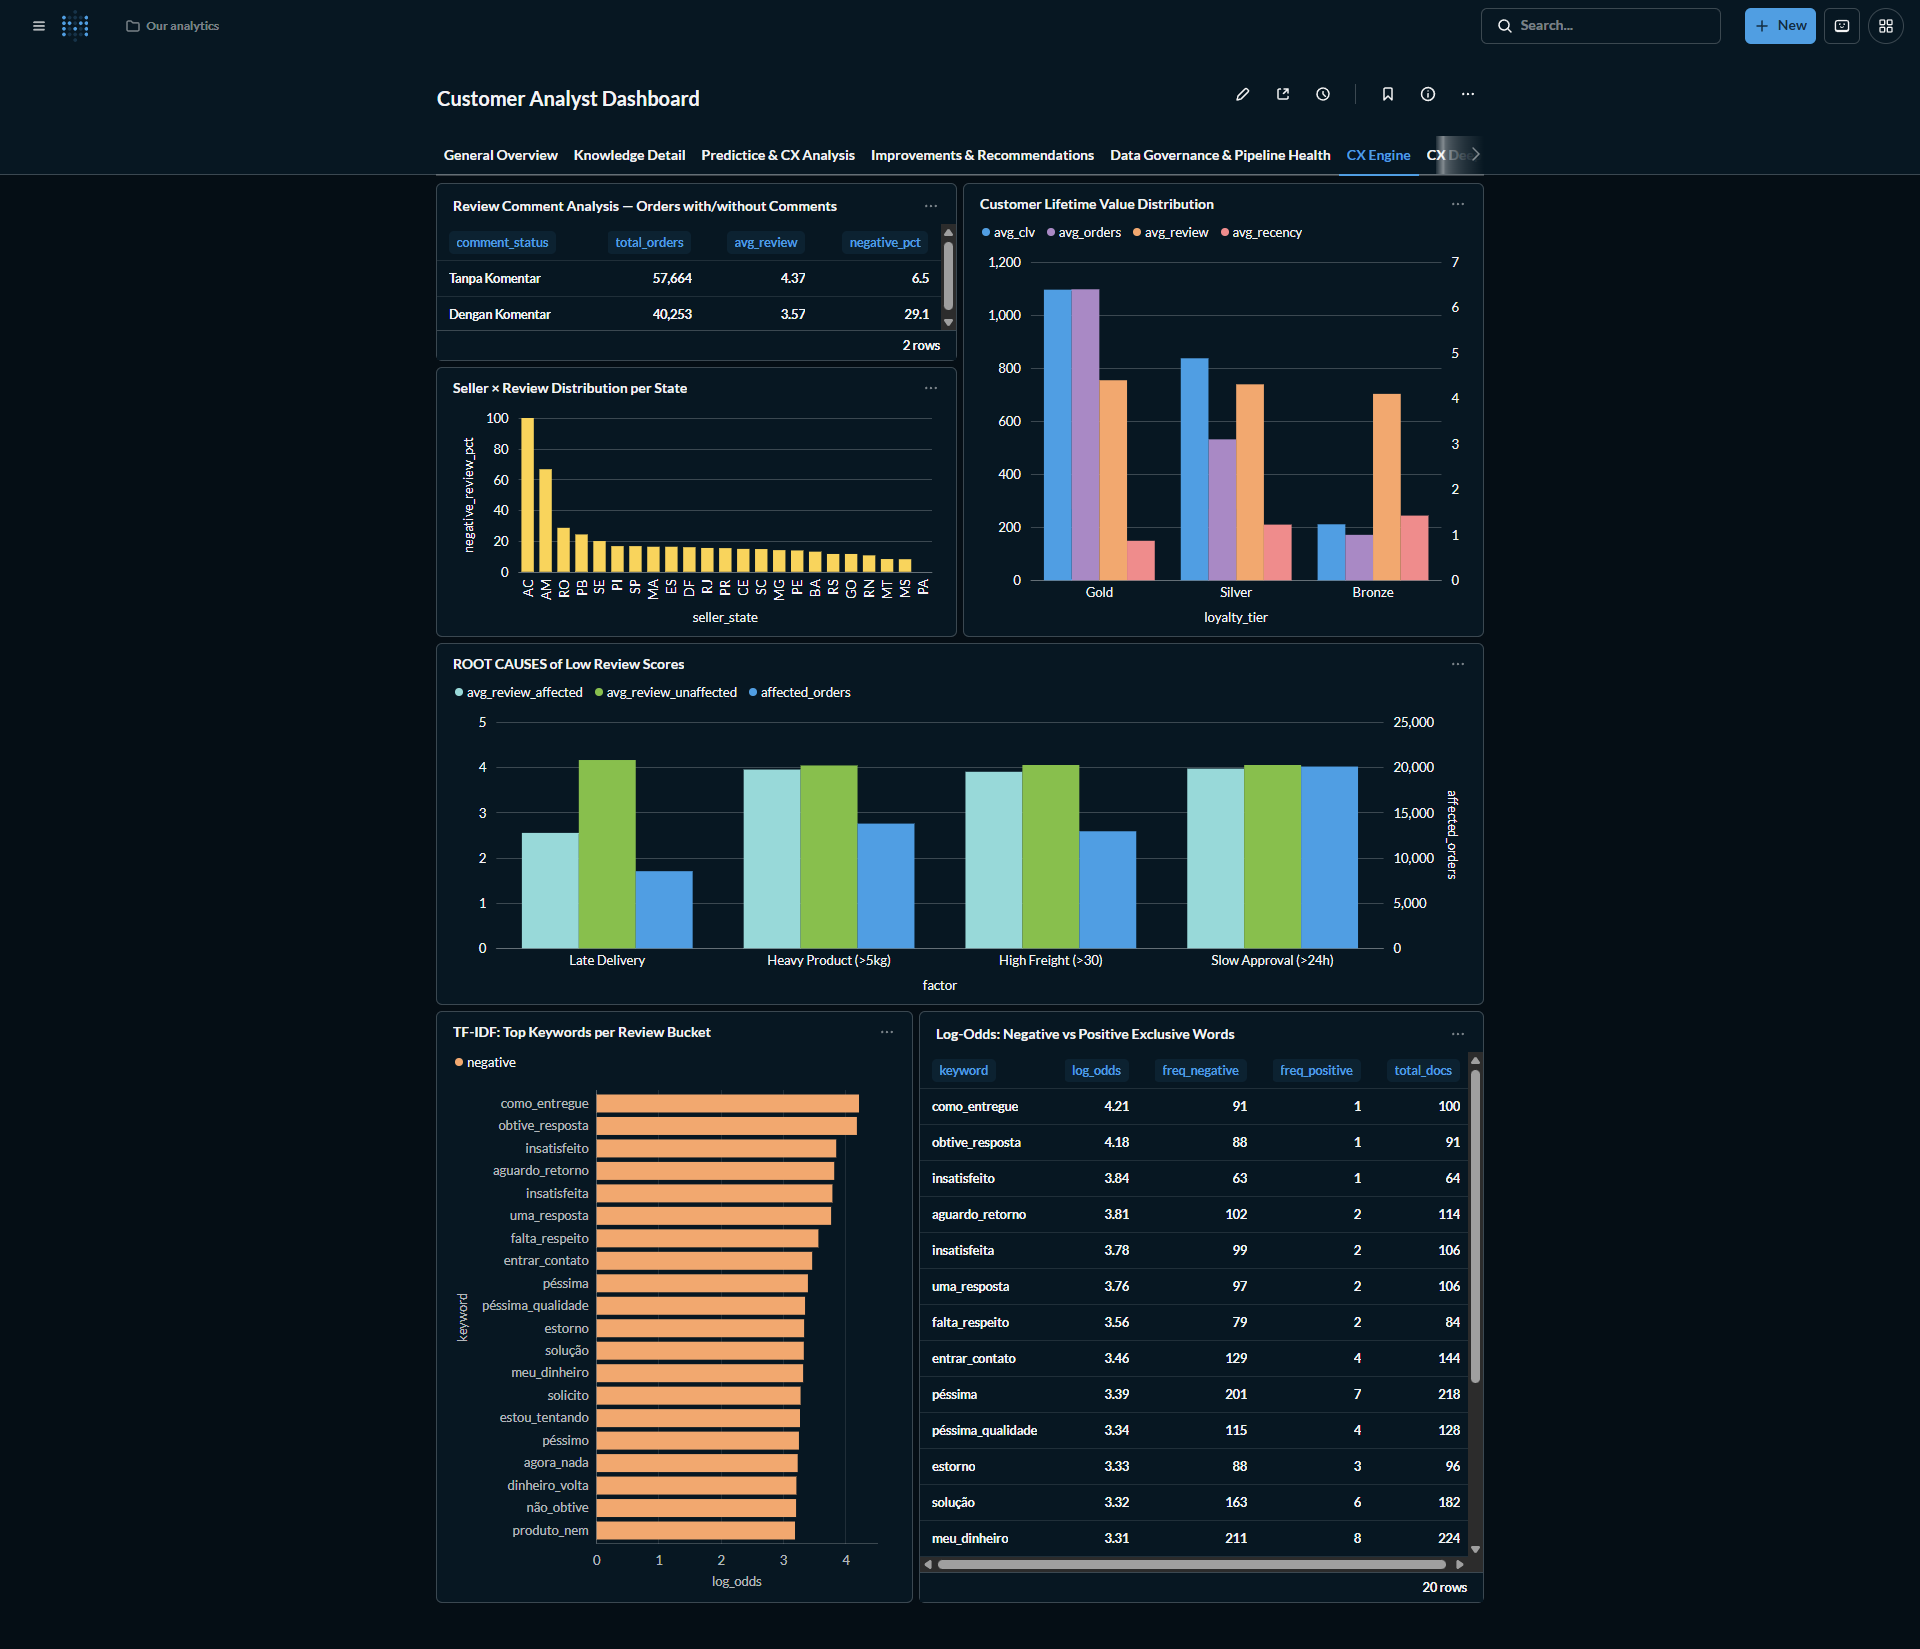
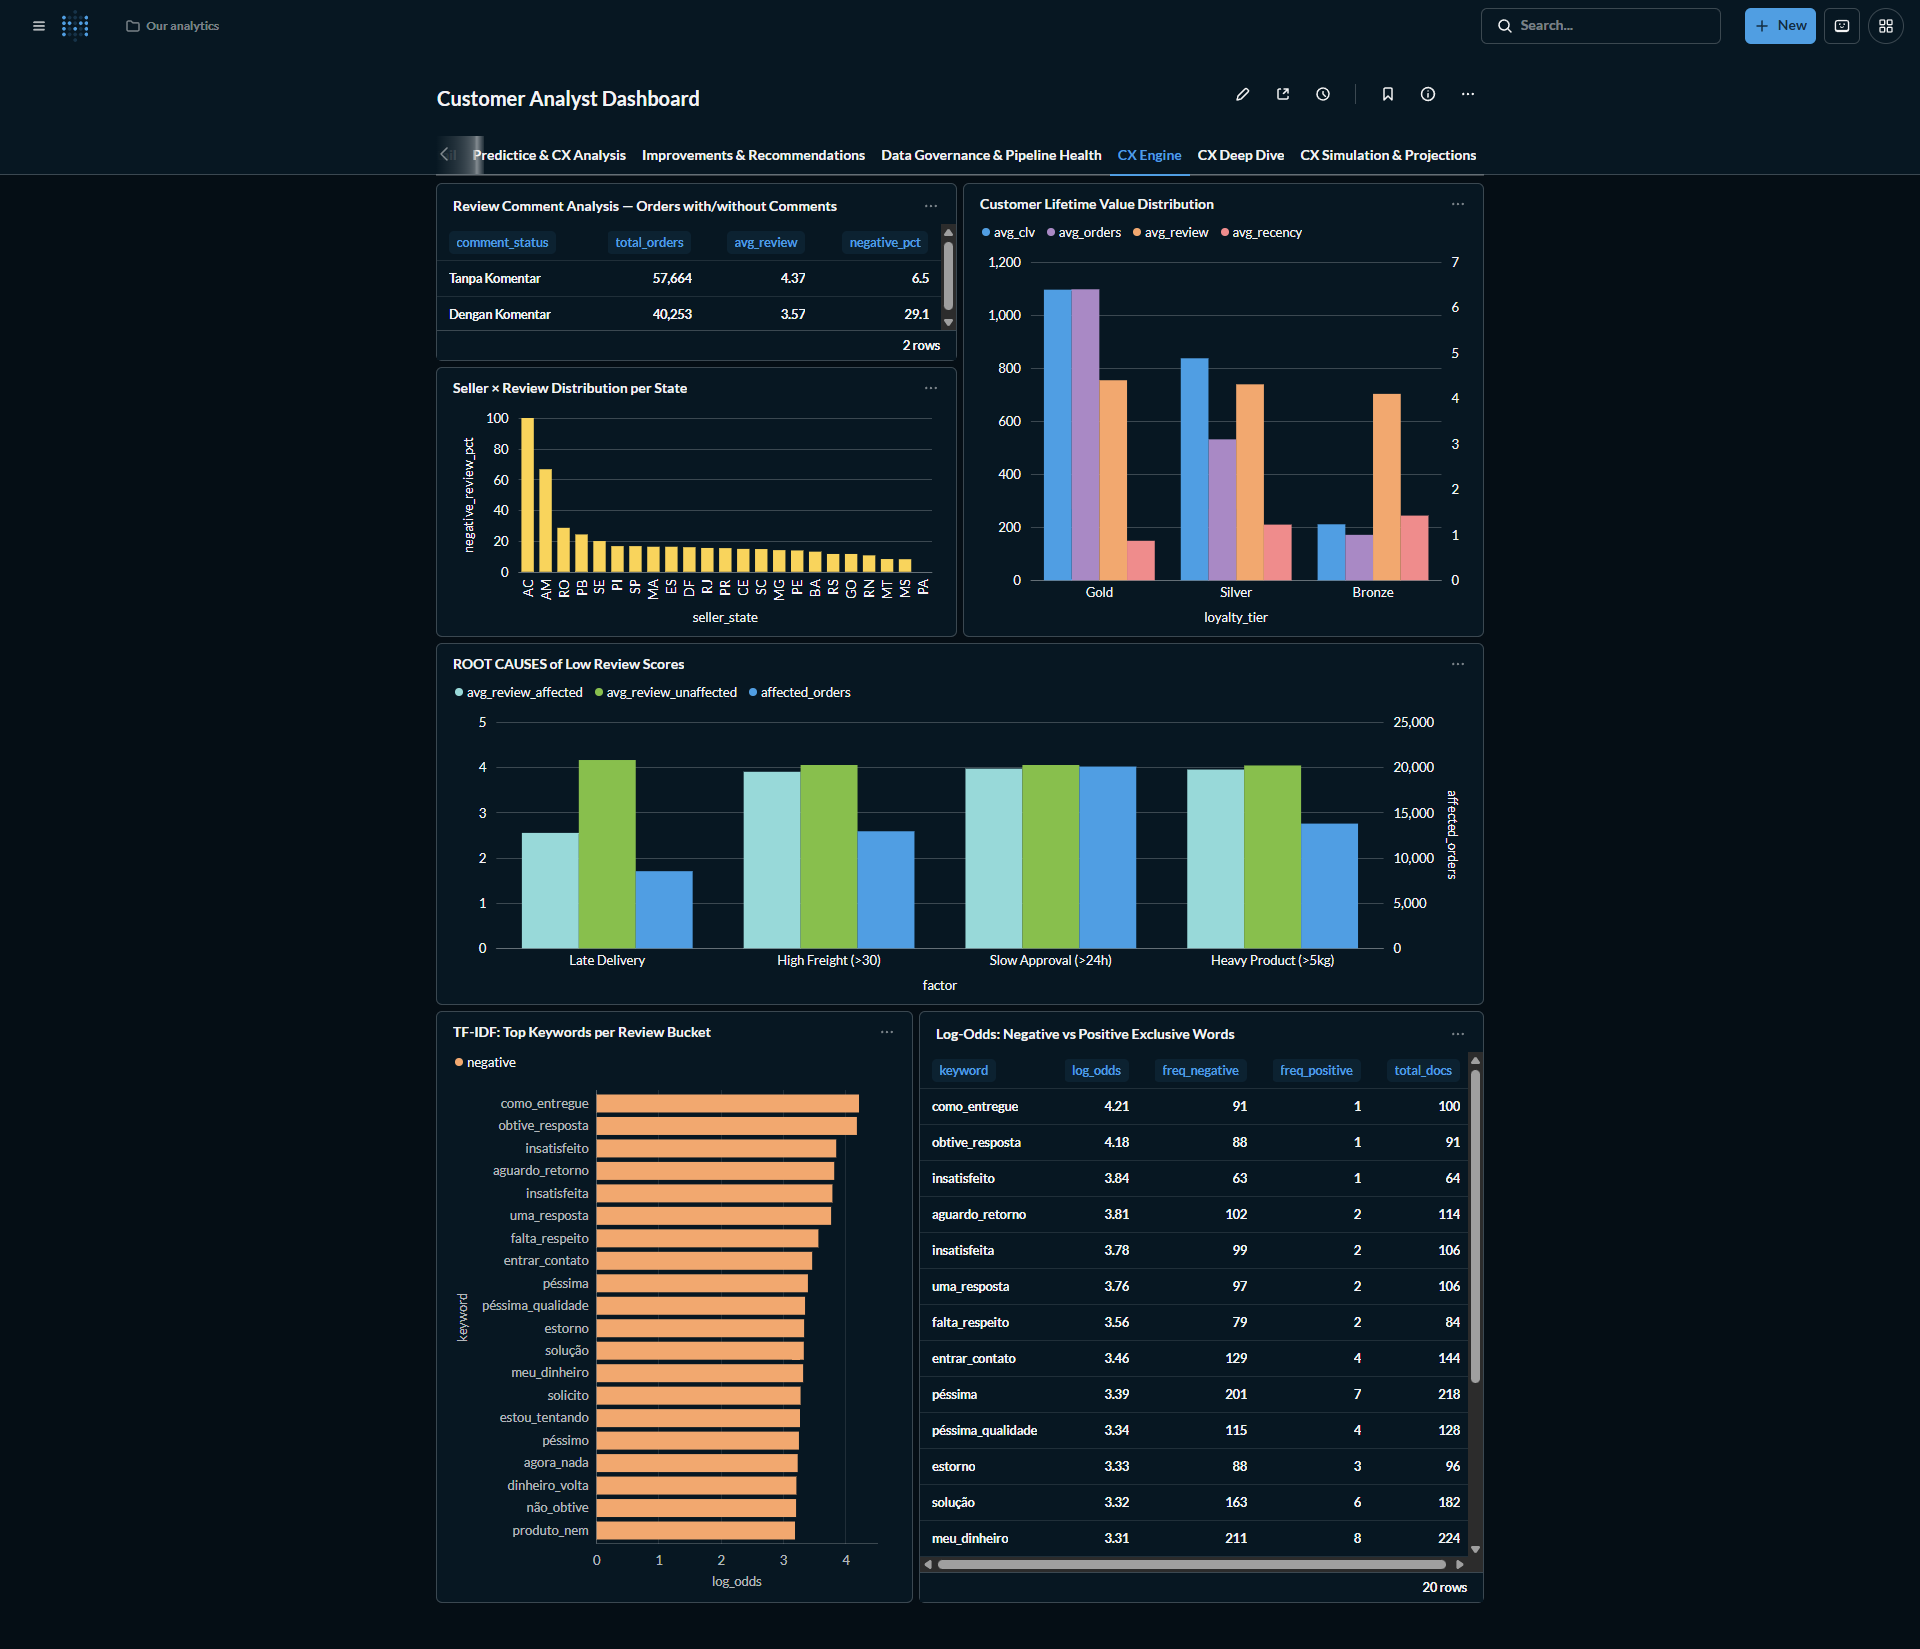
update images

diff --git a/dags/scripts/process_orders_spark.py b/dags/scripts/process_orders_spark.py
@@ -847,8 +847,8 @@ def run_spark_analytics():
             .withColumn("monetary", F.col("total_spend"))
             .withColumn(
                 "loyalty_tier",
-                F.when(F.col("total_orders") >= 5, F.lit("Gold"))
-                .when(F.col("total_orders") >= 3, F.lit("Silver"))
+                F.when(F.col("total_orders") >= 3, F.lit("Gold"))
+                .when(F.col("total_orders") >= 2, F.lit("Silver"))
                 .otherwise(F.lit("Bronze")),
             )
             .withColumn(

diff --git a/README.md b/README.md
@@ -252,9 +252,9 @@ delivery_delay = delivered_date - estimated_date  # positive = late
 is_late = delivery_delay > 0
 
 # RFM Loyalty Tiers
-Gold   = total_orders >= 5
-Silver = total_orders 3-4
-Bronze = total_orders < 3
+Gold   = total_orders >= 3
+Silver = total_orders == 2
+Bronze = total_orders < 2
 
 # Churn Risk
 High   = recency > 60 days